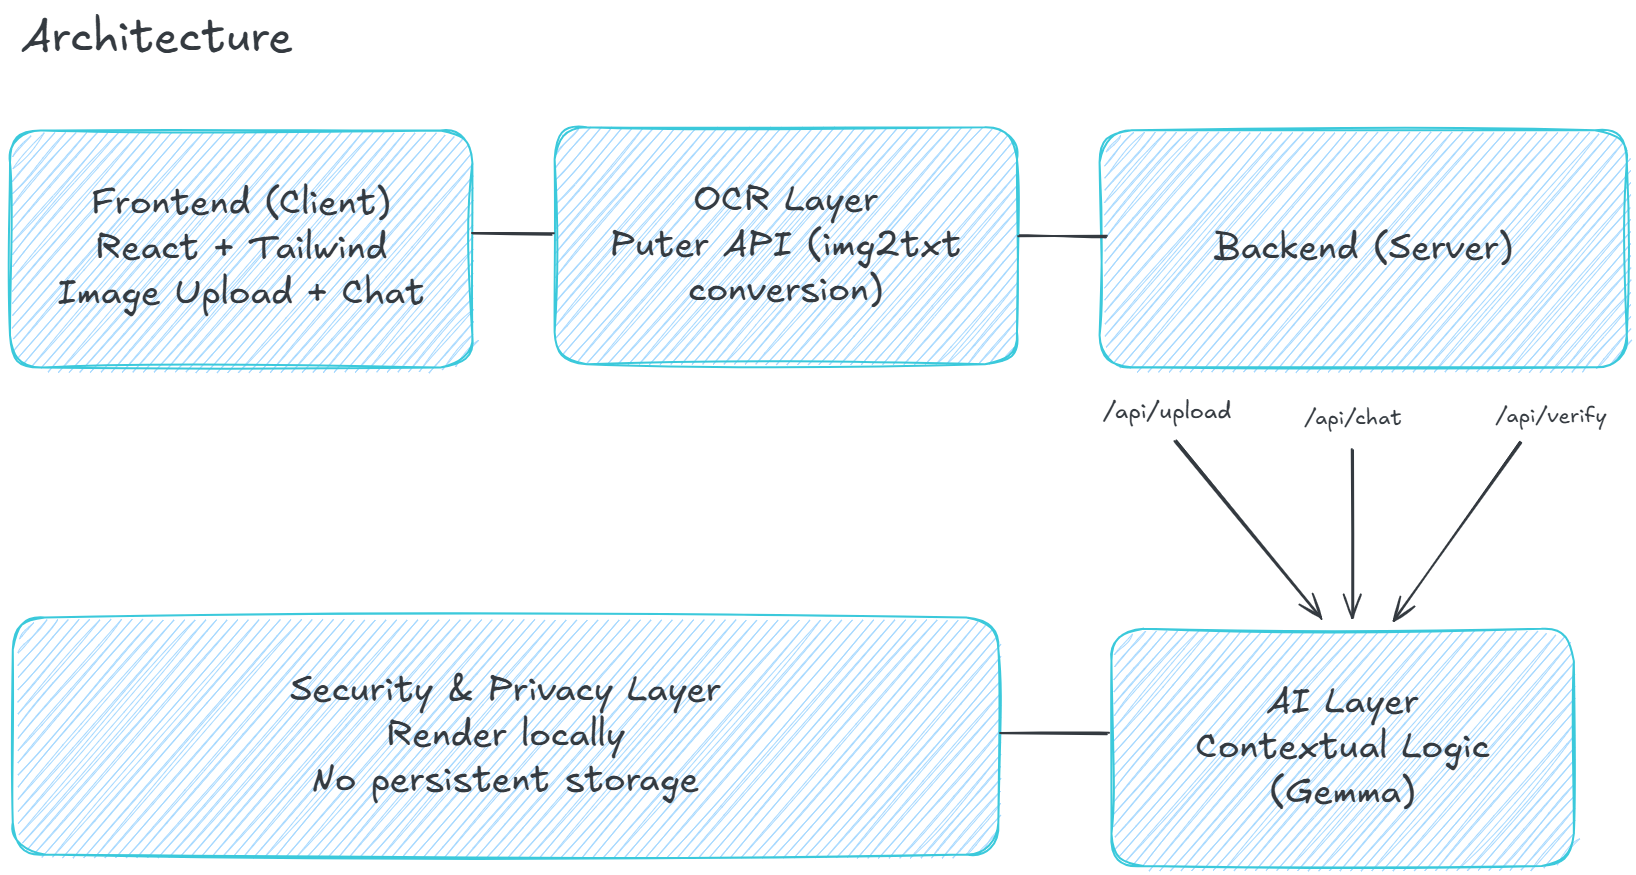
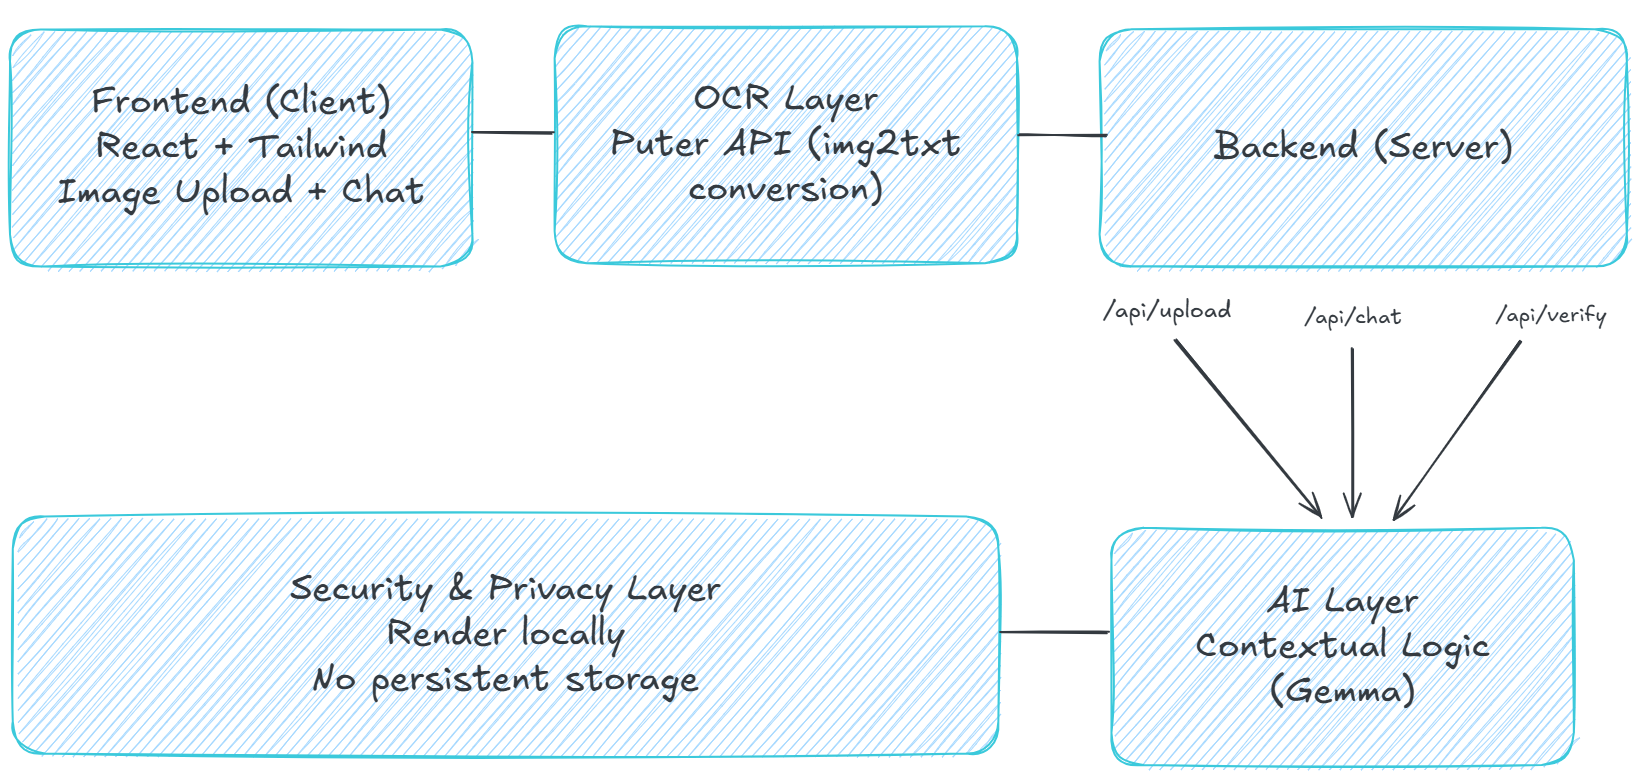
fix: mention redis in readme

diff --git a/README.md b/README.md
@@ -15,7 +15,7 @@ MedTalk is an AI-powered healthcare assistant that helps users understand their 
 ## Tech Stack
 
 - **Frontend:** React, Tailwind CSS
-- **Backend:** Node.js, Express
+- **Backend:** Node.js, Express, Redis (for caching)
 - **OCR:** Puter.ai
 - **AI:** Google Gemma (for chat and summaries)
 
